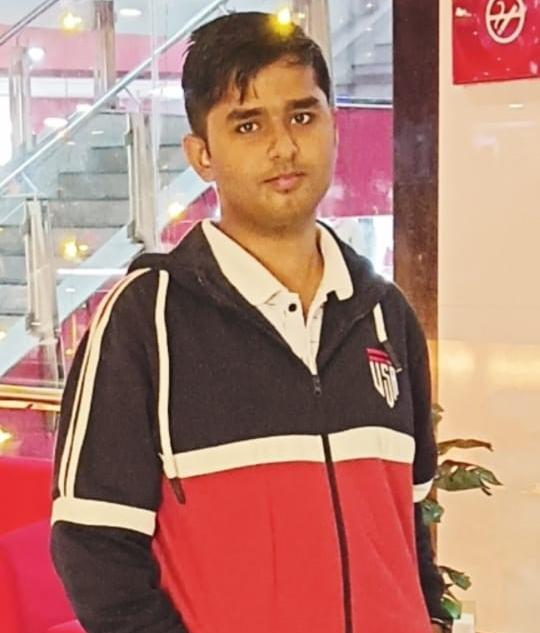
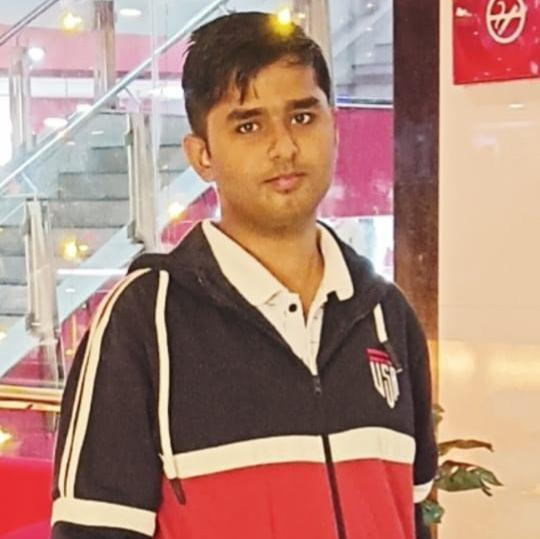
minor changes

diff --git a/faculty.html b/faculty.html
@@ -1455,7 +1455,7 @@
                               <img
                                 class="img-fluid shadow1"
                                 style="width: 100px"
-                                src="images/akshara-content.jpg"
+                                src="images/akshara-content (1).jpg"
                                 alt=""
                               />
                               <a
